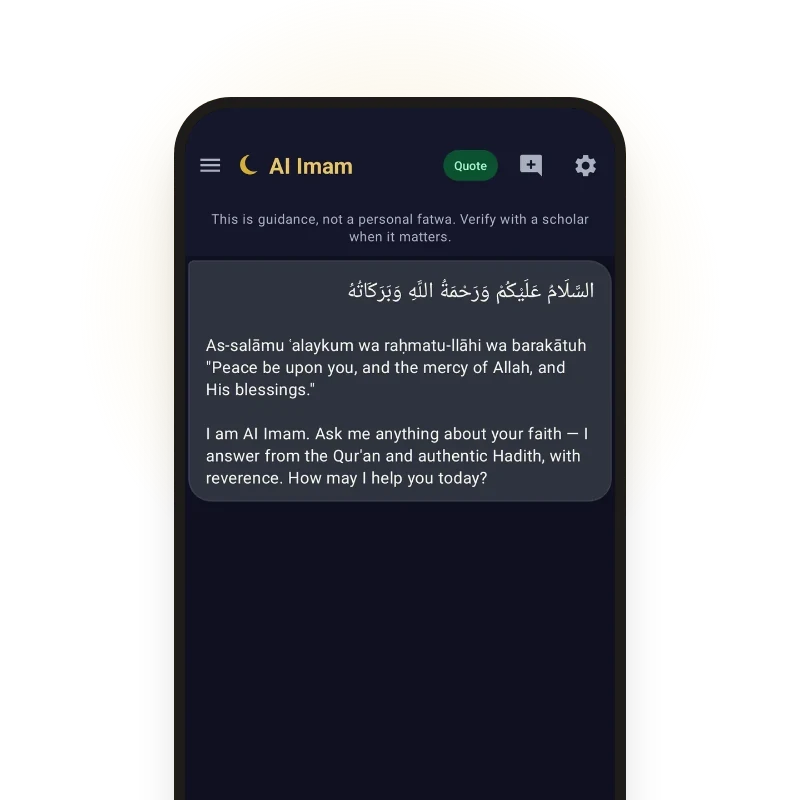
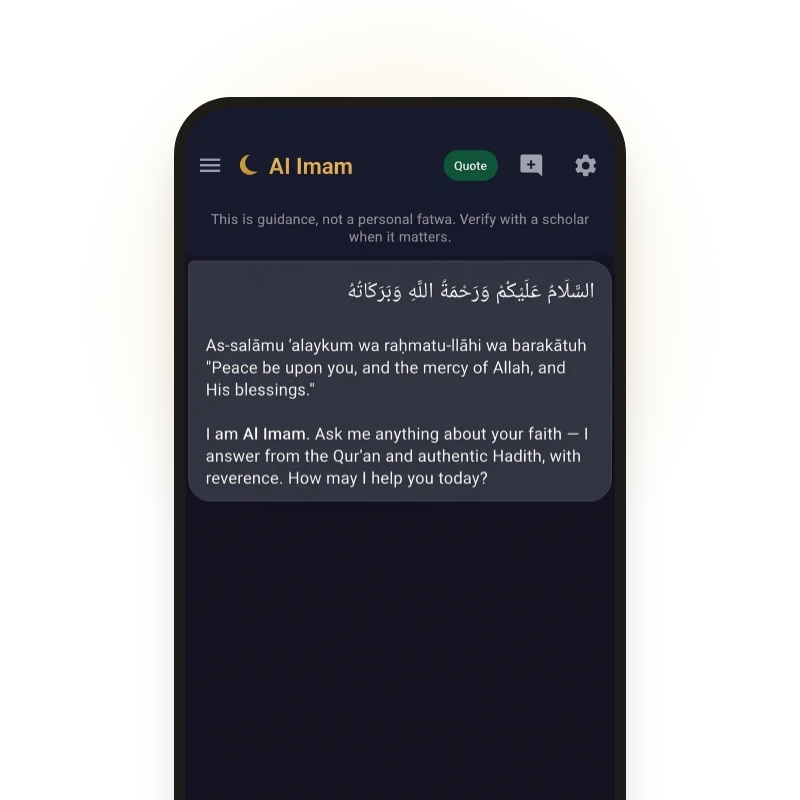
work: enhanced screen sets for the five mobile apps, Qibla hero art
Swaps in the higher-resolution re-rendered screens for Family Safety, Meherpur Sheba, My Masjid Azan, Tuee and AI Imam, and rebuilds their covers and cards from them. Adds the Qibla promo art as a full-width gallery hero, which needed a wide flag in the gallery renderer.

diff --git a/tools/art.html b/tools/art.html
@@ -187,7 +187,7 @@ const DATA = [
     kicker: 'Android · Parent + child', title: 'Family<br>Safety',
     sub: 'Live location, screen time and app limits across two phones, paired by QR.',
     meta: ['Kotlin', 'OpenStreetMap', 'In development'],
-    front: 'img/family-safe/01-dashboard.webp', back: 'img/family-safe/05-app-management.webp',
+    front: 'img/family-safe/01-dashboard.webp', back: 'img/family-safe/03-app-management.webp',
     card: 'img/family-safe/01-dashboard.webp' },
 
   { slug: 'bloomly', accent: '#5f8a4e', ink: '#4a7a3a', dark: false,
@@ -208,15 +208,15 @@ const DATA = [
     kicker: 'Android · Client work', title: 'Meherpur<br>Sheba',
     sub: 'A district directory for Meherpur — nine sections, 78 doctors, one tap to call.',
     meta: ['Kotlin', 'Firebase', 'Client'],
-    front: 'img/meherpur-sheba/01-home.webp', back: 'img/meherpur-sheba/04-category-list.webp',
+    front: 'img/meherpur-sheba/01-home.webp', back: 'img/meherpur-sheba/03-doctors.webp',
     card: 'img/meherpur-sheba/01-home.webp' },
 
   { slug: 'tuee', accent: '#c2410c', ink: '#b23c0a', dark: false,
     kicker: 'Android · Home cooking', title: 'Tuee',
     sub: 'A private recipe book for two: 41 dishes, a meal plan, and a kitchen assistant.',
     meta: ['Kotlin', 'Android', 'In development'],
-    front: 'img/tuee/01-cuisine.webp', back: 'img/tuee/02-recipes.webp',
-    card: 'img/tuee/02-recipes.webp' },
+    front: 'img/tuee/01-recipes.webp', back: 'img/tuee/02-recipes-list.webp',
+    card: 'img/tuee/01-recipes.webp' },
 
   { slug: 'ai-imam', accent: '#e0b64a', ink: '#e0b64a', dark: true,
     kicker: 'Android · Islamic assistant', title: 'AI Imam',

diff --git a/project.js b/project.js
@@ -146,6 +146,7 @@
         gimg.src = typeof item === 'string' ? item : item.src;
         gimg.alt = (typeof item === 'object' && item.alt) || project.name;
         gimg.loading = 'lazy';
+        if (typeof item === 'object' && item.wide) fig.className = 'wide';
         fig.appendChild(gimg);
         if (typeof item === 'object' && item.caption) {
           fig.appendChild(el('figcaption', null, item.caption));

diff --git a/styles.css b/styles.css
@@ -587,6 +587,8 @@ html[data-theme='dark'] .cover-initials { color: rgba(194, 191, 186, .18); }
 
 /* a single screenshot gets more room than one grid column */
 .gallery:has(figure:only-child) figure { grid-column: span 2; }
+/* an explicit wide item spans the whole row */
+.gallery figure.wide { grid-column: 1 / -1; }
 @media (max-width: 560px) {
   .gallery:has(figure:only-child) figure { grid-column: span 1; }
 }

diff --git a/README.md b/README.md
@@ -110,7 +110,7 @@ Screenshots live in `img/<slug>/` and are referenced by relative path.
 |---|---|---|
 | `img/<slug>/cover.webp` | Project page hero | 2400 × 975 (1.5× of 1600 × 650) |
 | `img/<slug>/card.webp` | Home grid tile | 800 × 800, transparent |
-| `img/<slug>/NN-*.webp` | Project page gallery | 810 wide (phone), native for desktop |
+| `img/<slug>/NN-*.webp` | Project page gallery | 900 wide (phone), native for desktop |
 
 Images are WebP, not PNG — the set was 9.3 MB as PNG and is under 3 MB as WebP
 with no visible difference.
